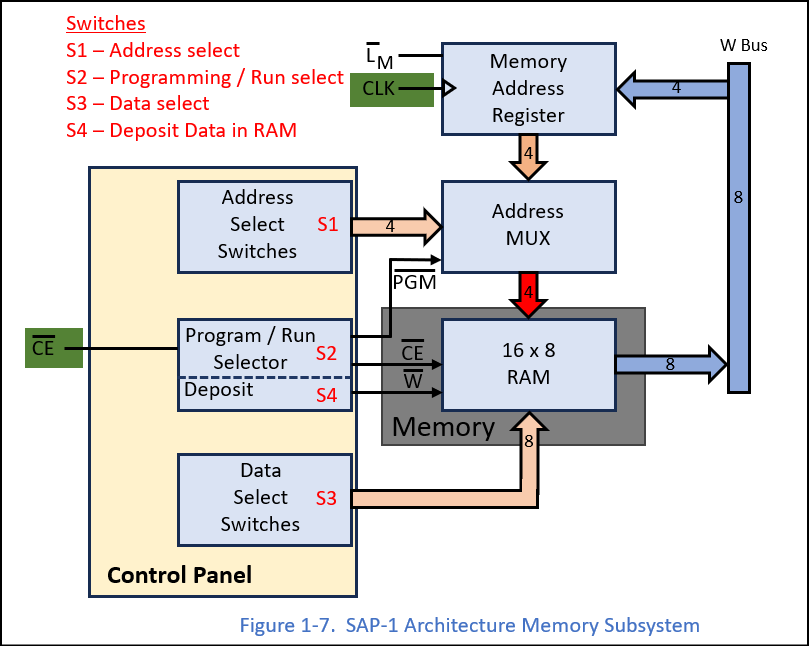
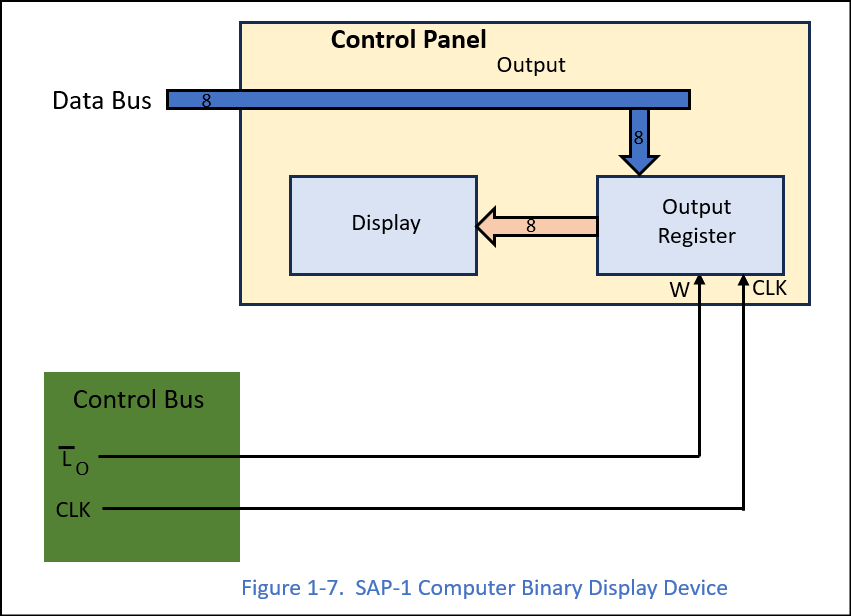
modified:   SAP-1_Computer_Analysis/Pictures1/Figure1-7.png

diff --git a/SAP-1_Computer_Analysis/README.md b/SAP-1_Computer_Analysis/README.md
@@ -101,14 +101,14 @@ The Control Matrix has the role of generating control signals depending on the i
 
 ![ Figure 1-6 ](https://github.com/LincaMarius/ISAP-1_Computer_Proiect/blob/main/SAP-1_Computer_Analysis/Pictures1/Figure1-6.png)
 
-### Binary Display
+## Binary Display
 The simplest output device that can be connected to this Computer is a Binary Display. This device is used in the original construction of the SAP-1 Computer, where it is integrated directly into the structure of this Computer.
 
 My version of the Block Diagram is identical to the original, except that I treated the original Output Register as a standalone block that is connected to the system buses as an Input/Output Device.
 
 The output device consists of a register where 8 bits are written when the I/O control signal is activated and the rising edge of the clock occurs. Each bit from the output of this register is connected to an LED. This is a Binary Display.
 
-![ Figure 1-6 ](https://github.com/LincaMarius/ISAP-1_Computer_Proiect/blob/main/SAP-1_Computer_Analysis/Pictures1/Figure1-6.png)
+![ Figure 1-7 ](https://github.com/LincaMarius/ISAP-1_Computer_Proiect/blob/main/SAP-1_Computer_Analysis/Pictures1/Figure1-7.png)
 
 ### Memory Subsystem
 The following figure shows the Memory Block of the SAP-1 computer:
